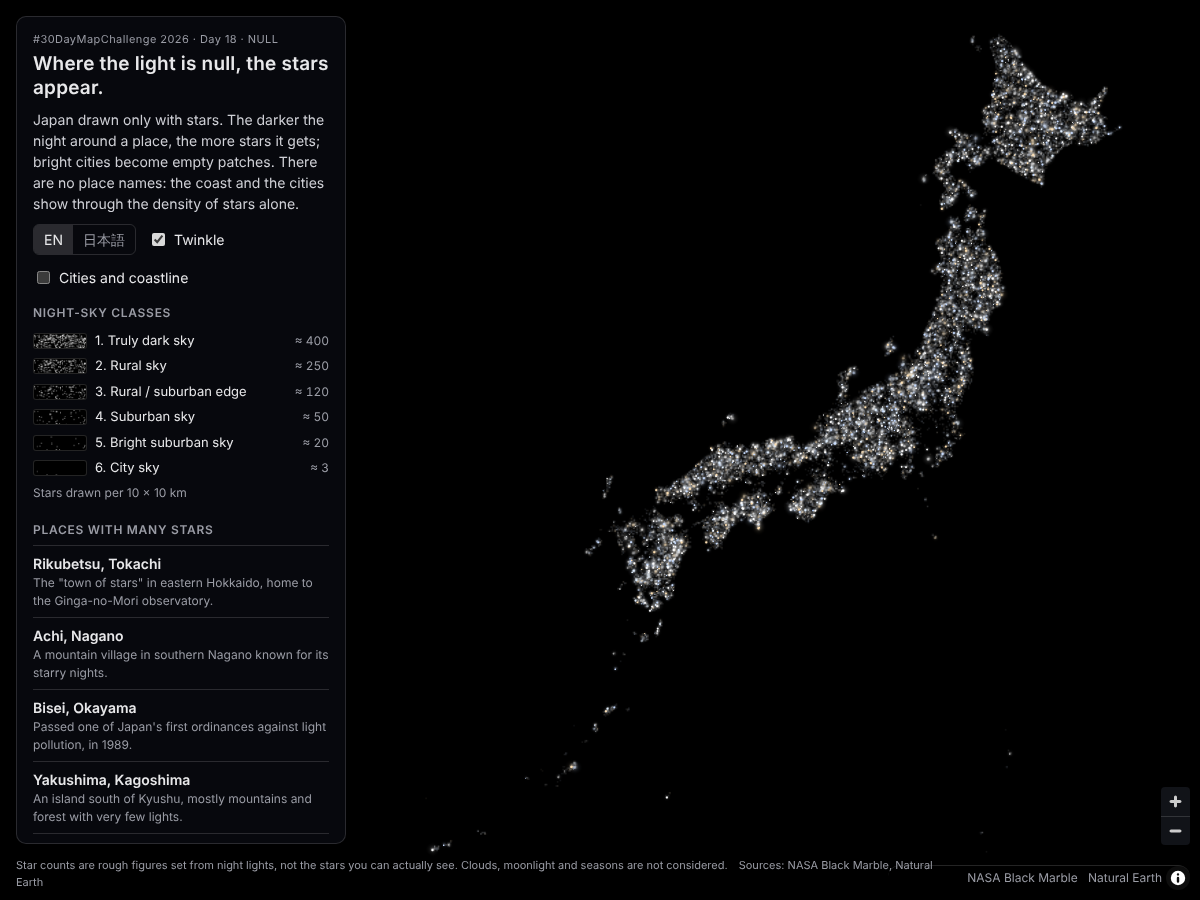
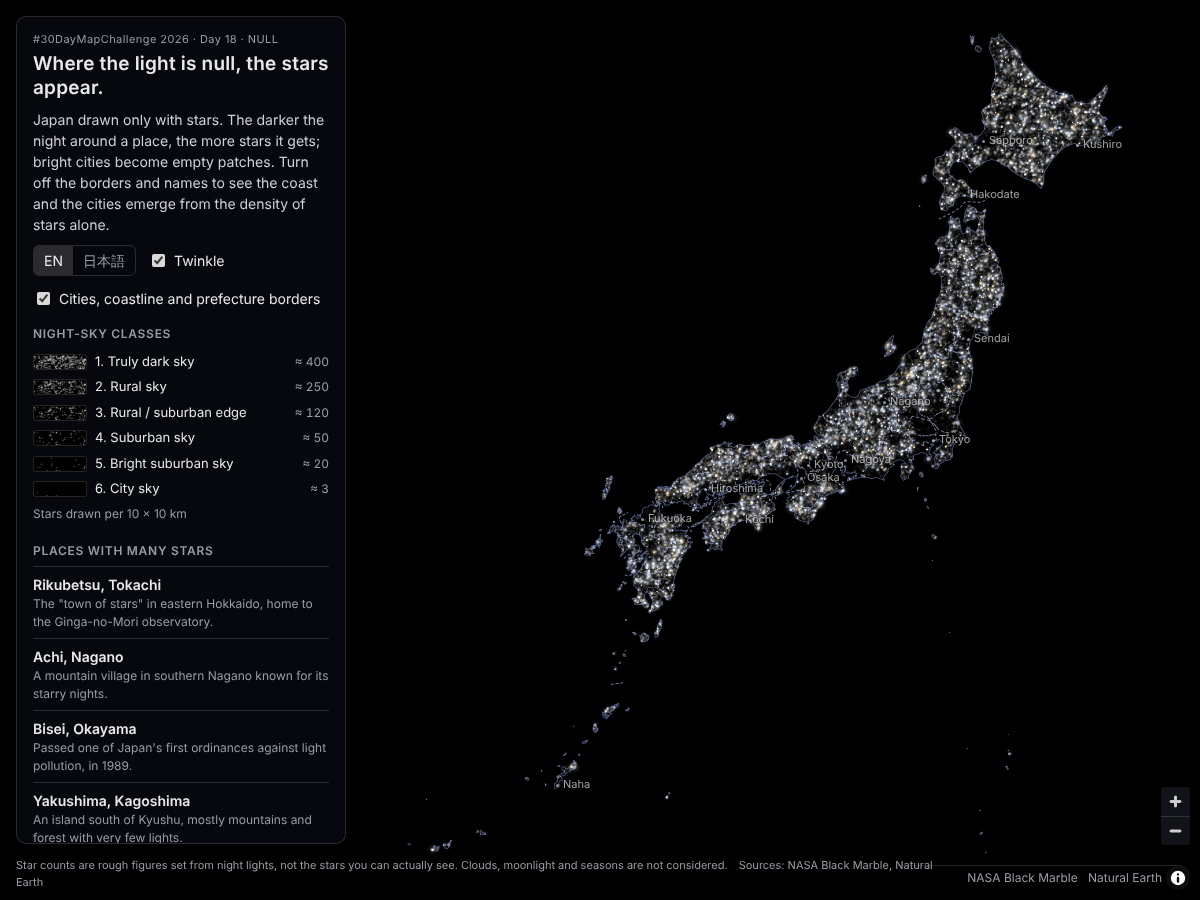
Show prefecture borders, coastline and city names by default

diff --git a/site/app.js b/site/app.js
@@ -4,8 +4,8 @@
   const T = {
     en: {
       title: "Where the light is null, the stars appear.",
-      lead: "Japan drawn only with stars. The darker the night around a place, the more stars it gets; bright cities become empty patches. There are no place names: the coast and the cities show through the density of stars alone.",
-      overlay: "Cities and coastline",
+      lead: "Japan drawn only with stars. The darker the night around a place, the more stars it gets; bright cities become empty patches. Turn off the borders and names to see the coast and the cities emerge from the density of stars alone.",
+      overlay: "Cities, coastline and prefecture borders",
       twinkle: "Twinkle",
       legendTitle: "Night-sky classes",
       legendHint: "Stars drawn per 10 × 10 km",
@@ -26,14 +26,14 @@
         <ul>
           <li>Star counts are rough figures set from night lights. They are not a calculation of the stars you can actually see.</li>
           <li>Clouds, moonlight and seasons are not taken into account.</li>
-          <li>Sources: NASA Black Marble (VNP46A4, annual composite, ${"{year}"}); Natural Earth (coastline, cities). Both are in the public domain.</li>
+          <li>Sources: NASA Black Marble (VNP46A4, annual composite, ${"{year}"}); Natural Earth (coastline, prefecture borders, cities). Both are in the public domain.</li>
         </ul>
         <p><a href="https://github.com/shinyanakashima/30daymapchallenge-2026day18-stars" target="_blank" rel="noopener">Source code and method</a></p>`,
     },
     ja: {
       title: "光がない場所に、星が現れる。",
-      lead: "日本を星だけで描きました。夜の明かりが少ない場所ほど星を多く、明るい街ほど少なく描いています。地名はありません。星の濃淡だけで、海岸線と街の位置が浮かび上がります。",
-      overlay: "都市名と海岸線",
+      lead: "日本を星だけで描きました。夜の明かりが少ない場所ほど星を多く、明るい街ほど少なく描いています。境界線と地名を消すと、星の濃淡だけで海岸線と街の位置が浮かび上がります。",
+      overlay: "都市名・海岸線・都道府県境",
       twinkle: "瞬き",
       legendTitle: "夜空の段階",
       legendHint: "10km四方に描いた星の数",
@@ -54,7 +54,7 @@
         <ul>
           <li>星の数は夜の明かりから決めた目安で、実際に見える星の数を計算したものではありません。</li>
           <li>雲、月明かり、季節は考慮していません。</li>
-          <li>出典: NASA Black Marble（VNP46A4 年合成、${"{year}"}年）、Natural Earth（海岸線、都市）。いずれもパブリックドメインです。</li>
+          <li>出典: NASA Black Marble（VNP46A4 年合成、${"{year}"}年）、Natural Earth（海岸線、都道府県境、都市）。いずれもパブリックドメインです。</li>
         </ul>
         <p><a href="https://github.com/shinyanakashima/30daymapchallenge-2026day18-stars" target="_blank" rel="noopener">ソースコードと処理の方法</a></p>`,
     },
@@ -101,6 +101,7 @@
           attribution: "Night lights: <a href=\"https://blackmarble.gsfc.nasa.gov/\" target=\"_blank\" rel=\"noopener\">NASA Black Marble</a> · <a href=\"https://www.naturalearthdata.com/\" target=\"_blank\" rel=\"noopener\">Natural Earth</a>",
         },
         coast: { type: "geojson", data: "data/coastline.geojson" },
+        prefs: { type: "geojson", data: "data/prefectures.geojson" },
         twinkle: { type: "geojson", data: "tiles/twinkle.geojson" },
       },
       layers: [
@@ -115,8 +116,11 @@
             "circle-opacity": 0.6,
           },
         })),
+        { id: "prefs", type: "line", source: "prefs", layout: { visibility: "none", "line-join": "round" },
+          paint: { "line-color": "#b8c8ff", "line-opacity": ["interpolate", ["linear"], ["zoom"], 4, 0.6, 8, 0.75],
+            "line-width": ["interpolate", ["linear"], ["zoom"], 4, 0.9, 9, 1.6], "line-dasharray": [2.5, 1.5] } },
         { id: "coast", type: "line", source: "coast", layout: { visibility: "none" },
-          paint: { "line-color": "#9fb4ff", "line-opacity": 0.28, "line-width": 0.6 } },
+          paint: { "line-color": "#9fb4ff", "line-opacity": 0.5, "line-width": ["interpolate", ["linear"], ["zoom"], 4, 0.7, 9, 1.2] } },
       ],
     },
     bounds: [[122.9, 24.0], [146.2, 45.6]],
@@ -138,14 +142,26 @@
       el.className = "city";
       el.dataset.en = f.properties.en;
       el.dataset.ja = f.properties.ja;
+      el.dataset.rank = f.properties.rank;
       el.textContent = f.properties[lang];
       cityMarkers.push(new maplibregl.Marker({ element: el, anchor: "left" }).setLngLat(f.geometry.coordinates));
     });
     setOverlay(document.getElementById("overlay").checked);
+    thinCities();
   });
 
+  // fewer city names when zoomed out
+  function thinCities() {
+    const z = map.getZoom();
+    const maxRank = z < 4.2 ? 2 : z < 5.5 ? 4 : 99;
+    cityMarkers.forEach((m) => { m.getElement().style.display = Number(m.getElement().dataset.rank) <= maxRank ? "" : "none"; });
+  }
+  map.on("zoomend", thinCities);
+
   function setOverlay(on) {
-    if (map.getLayer("coast")) map.setLayoutProperty("coast", "visibility", on ? "visible" : "none");
+    ["coast", "prefs"].forEach((id) => {
+      if (map.getLayer(id)) map.setLayoutProperty(id, "visibility", on ? "visible" : "none");
+    });
     cityMarkers.forEach((m) => (on ? m.addTo(map) : m.remove()));
   }
 

diff --git a/site/index.html b/site/index.html
@@ -31,7 +31,7 @@
         <button data-lang="ja" aria-pressed="false">日本語</button>
       </div>
       <label class="toggle"><input type="checkbox" id="twinkle"> <span data-i18n="twinkle"></span></label>
-      <label class="toggle"><input type="checkbox" id="overlay"> <span data-i18n="overlay"></span></label>
+      <label class="toggle"><input type="checkbox" id="overlay" checked> <span data-i18n="overlay"></span></label>
     </div>
 
     <h2 data-i18n="legendTitle"></h2>

diff --git a/scripts/make_classes.py b/scripts/make_classes.py
@@ -5,6 +5,7 @@ Outputs
   data/processed/meta.json       grid, thresholds, statistics
   site/data/sky_class.png        1/2 resolution lookup image for the web page
   site/data/coastline.geojson    Japan outline (Natural Earth)
+  site/data/prefectures.geojson  prefecture boundaries (Natural Earth)
   site/data/cities.geojson       main cities (Natural Earth)
 """
 import json
@@ -169,6 +170,18 @@ def main():
                               geometry=dict(type="LineString",
                                             coordinates=[[round(x, 4), round(y, 4)] for x, y in ring])))
     (SITE / "coastline.geojson").write_text(json.dumps(dict(type="FeatureCollection", features=feats)))
+
+    # prefecture boundaries
+    feats = []
+    for r, shp in records(NE / "ne_10m_admin_1_states_provinces_lines/ne_10m_admin_1_states_provinces_lines.shp"):
+        if r["ADM0_A3"] != "JPN":
+            continue
+        for ring in rings(shp):
+            if len(ring) >= 2:
+                feats.append(dict(type="Feature", properties={},
+                                  geometry=dict(type="LineString",
+                                                coordinates=[[round(x, 4), round(y, 4)] for x, y in ring])))
+    (SITE / "prefectures.geojson").write_text(json.dumps(dict(type="FeatureCollection", features=feats)))
 
     cities = {}
     for r, shp in records(NE / "ne_10m_populated_places/ne_10m_populated_places.shp"):

diff --git a/scripts/fetch_data.py b/scripts/fetch_data.py
@@ -29,6 +29,7 @@ NE = {
     "admin0": "https://naciscdn.org/naturalearth/10m/cultural/ne_10m_admin_0_countries.zip",
     "admin1": "https://naciscdn.org/naturalearth/10m/cultural/ne_10m_admin_1_states_provinces.zip",
     "places": "https://naciscdn.org/naturalearth/10m/cultural/ne_10m_populated_places.zip",
+    "admin1_lines": "https://naciscdn.org/naturalearth/10m/cultural/ne_10m_admin_1_states_provinces_lines.zip",
 }
 
 

diff --git a/README.md b/README.md
@@ -4,9 +4,9 @@
 
 #30DayMapChallenge 2026 Day 18「NULL」
 
-Japan drawn only with stars. The darker the night around a place, the more stars it gets; bright cities become empty patches. There are no place names: the coast and the cities show through the density of stars alone.
+Japan drawn only with stars. The darker the night around a place, the more stars it gets; bright cities become empty patches. Turn off the borders and names to see the coast and the cities emerge from the density of stars alone.
 
-日本を星だけで描いた地図です。夜の明かりが少ない場所ほど星を多く、明るい街ほど少なく描いています。地名は載せていないので、星の濃淡だけで日本の形と街の位置が分かります。
+日本を星だけで描いた地図です。夜の明かりが少ない場所ほど星を多く、明るい街ほど少なく描いています。境界線と地名を消すと、星の濃淡だけで日本の形と街の位置が分かります。
 
 **公開URL:** https://shinyanakashima.github.io/30daymapchallenge-2026day18-stars/
 
@@ -16,7 +16,7 @@ Japan drawn only with stars. The darker the night around a place, the more stars
 
 - 英語表記が標準で、日本語に切り替えられます（`?lang=ja` でも開けます）。
 - 明るい星の一部が瞬きます（「Twinkle / 瞬き」で止められます。動きを減らす設定の端末では最初から止まっています）。
-- 「Cities and coastline / 都市名と海岸線」で、主な都市名と海岸線をうすく重ねられます。
+- 主な都市名、海岸線、都道府県境を重ねて表示します（最初から表示。「Cities, coastline and prefecture borders / 都市名・海岸線・都道府県境」で消せます）。都市名はズームに合わせて数を増やします。
 - 地図をクリックすると、その地点の段階と、描いた星の数の目安（10km四方あたり）を表示します。
 - 陸別町（十勝）、阿智村、美星町、屋久島、西表島・石垣島の5か所を紹介しています。
 - スマートフォンでは、説明パネルが画面下にたためる形で表示されます。
@@ -53,7 +53,7 @@ Japan drawn only with stars. The darker the night around a place, the more stars
 ## データの出典
 
 - **夜間光**: NASA Black Marble VNP46A4（VIIRS/NPP Lunar BRDF-Adjusted Nighttime Lights Yearly L3 Global 15 arc-second Linear Lat Lon Grid, Collection 2）、2025年。NASA LAADS DAAC から取得。パブリックドメイン。
-- **海岸線・国境・都市**: [Natural Earth](https://www.naturalearthdata.com/) 1:10m（Admin 0 Countries、Admin 1 States and Provinces、Populated Places）。パブリックドメイン。
+- **海岸線・都道府県境・都市**: [Natural Earth](https://www.naturalearthdata.com/) 1:10m（Admin 0 Countries、Admin 1 States and Provinces、Admin 1 States and Provinces Lines、Populated Places）。パブリックドメイン。
 - **地図表示**: [MapLibre GL JS](https://maplibre.org/) 4.7.1。
 
 ## 再現手順
